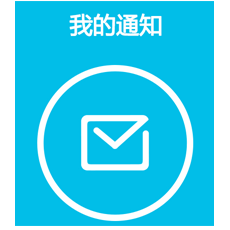
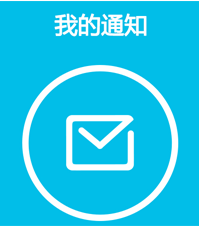
studentpage进一步完善
（1）根据用户信息判断是否有新邮件，并在studentpage页面提醒有无新邮件；
（2）myemail页面显示的邮件数目是double型，我尝试用toInt（）来改正，但没有成功

diff --git a/web/studentpage.dart b/web/studentpage.dart
@@ -7,13 +7,14 @@ InputElement todoInput;
 List<String> my_email=[];//存放从服务器中传过来的值
 void main(){
   var name=cookie.get('name');
+  document.getElementById('test').value=name.toString();
   var path = 'http://127.0.0.1:8080/studentpage';//唯一的地址URL
   var httpRequest = new HttpRequest();//访问web网站的协议（网上请求文件——ftp超文本传输协议）
   httpRequest
-    ..open('GET', path)//拨号，打开一条通道
-    ..onLoadEnd.listen((e) => requestComplete(httpRequest))
+    //..open('GET', path)//拨号，打开一条通道
     ..open('POST', path)
-    ..send(JSON.encode(name));//把用户名传给服务器，服务器根据用户名进行查找与用户名匹配的信息
+    ..send(JSON.encode(name))//把用户名传给服务器，服务器根据用户名进行查找与用户名匹配的信息
+    ..onLoadEnd.listen((e) => requestComplete(httpRequest));
 }
 
 requestComplete(HttpRequest request) {
@@ -21,13 +22,13 @@ requestComplete(HttpRequest request) {
     //200代表数据正确拿到
     my_email = JSON.decode(request.responseText);
     var num=my_email.length;
-    document.getElementById('test').value=my_email.toString();//判断是否有新消息
+    //document.getElementById('test').value=my_email.toString();//判断是否有新消息
     button_3=querySelector('#button_3');
     if(num==0) {
       button_3.src="index_picture/button3.png";//在没有新消息的情况下，使用button_3图片
     }
     else{
-      button_3.src="index_picture/button2.png";//有了新消息之后会使用button_2图片
+      button_3.src="index_picture/button3_1.png";//有了新消息之后会使用button_3_1图片
     }
   }
 }

diff --git a/web/myemail.dart b/web/myemail.dart
@@ -3,8 +3,9 @@ import 'dart:convert';
 import 'package:dialog/dialog.dart';
 import 'package:cookie/cookie.dart'as cookie;
 var num=0;
-int number;
+var number;
 List<String> my_email=[];
+
 
 void main(){
   var name=cookie.get('name');
@@ -24,19 +25,14 @@ requestComplete(HttpRequest request) {
     //200代表数据正确拿到
     my_email = JSON.decode(request.responseText);
     //decode代表解码
-    querySelector("#club_name").text=my_email[0].toString();
-    querySelector("#theme").text=my_email[0].toString();
-    querySelector("#contain").text=my_email[1].toString();
-    var num=my_email.length/2;
-    var n=num.toString();
-    cookie.set('email', '${n}' , expires: 7);
-    var s=cookie.get('email');
-    number=int.parse(s);
-    querySelector("#theme").text=s.toString();
+    number=(my_email.length/2)-0;
+    querySelector("#theme").text=number.toString();
   }
   else {
-    querySelector("#theme").text="error";
+    querySelector("#theme").text="0";
   }
+  querySelector("#club_name").text=my_email[0].toString();
+  querySelector("#contain").text=my_email[1].toString();
 }
 
 void previous_page(Event e){

diff --git a/web/index.css b/web/index.css
@@ -12,18 +12,18 @@
     margin-left:10px;
 }
 #register{
-    width:140px;
-    height: 50px;
-    margin-left:10px;
+    width:106px;
+    height: 44px;
+    margin-left:35px;
     margin-top:0px;
     margin-right: 5px;
     float:left;
 }
 #login{
-    width:140px;
-    height: 50px;
+    width:106px;
+    height: 44px;
     margin-left: 170px;
-    margin-top:-50px;
+    margin-top:-43px;
     float:left;
 }
 #form{
@@ -50,17 +50,11 @@
     color: #080808;
 }
 #ueser_password{
-<<<<<<< HEAD
-	width:60px;
-	height:40px;
-	margin-top:150px;
-    color: #080808;
-    font-family: cursive;
-=======
     width:60px;
     height:40px;
     margin-top:150px;
->>>>>>> origin/master
+    color: #080808;
+    font-family: cursive;
 }
 
 #index_about{

diff --git a/web/admin.dart b/web/admin.dart
@@ -24,7 +24,7 @@ void user_login(Event e){
   else{
     if (username=="admin")
       if(password=="admin")
-        window.location.href="myemail.html";
+        window.location.href="clubsend.html";
       else
         alert("密码错误");
     else

diff --git a/web/studentpage.css b/web/studentpage.css
@@ -44,10 +44,10 @@
     float:left;
 }
 #button_3{
-    width:230px;
-    height:230px;
+    width:199px;
+    height:226px;
     margin-left:85px;
-    margin-top:40px;
+    margin-top:45px;
     float:left;
 }
 

diff --git a/bin/index_server.dart b/bin/index_server.dart
@@ -140,7 +140,9 @@ register() async {
     name_check="";
   }
   print(name_check);
-  register_check="";
+  print(register_check);
+  register_check=null;
+  print(register_check);
 
 }
 save() async{
